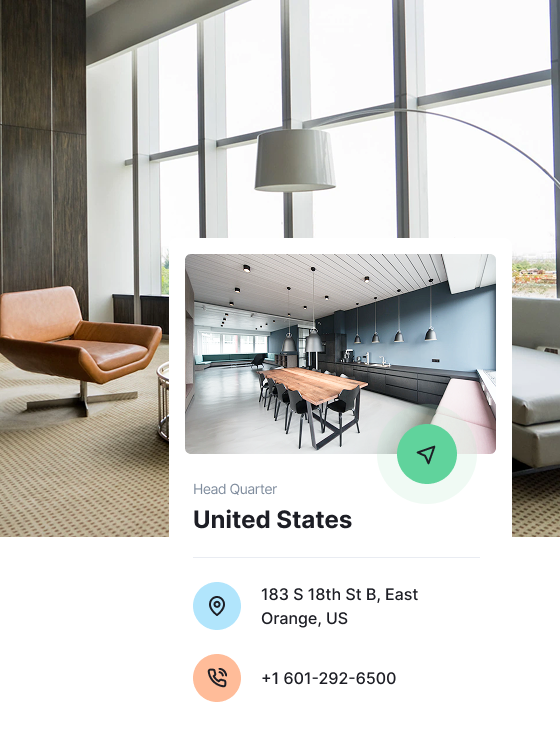
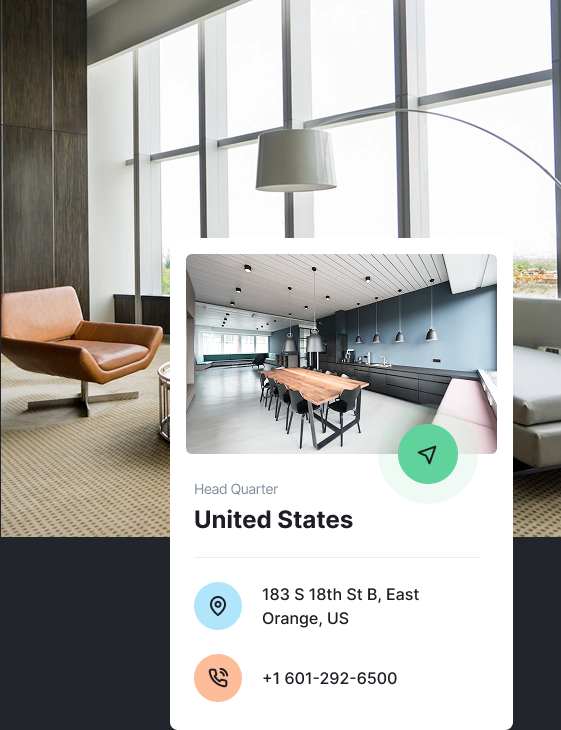
PRT-012 feat: implementação Clamp ao tamanho das fontes, modulando de 375px a 1440px

diff --git a/CSS/styles.css b/CSS/styles.css
@@ -16,6 +16,18 @@
 
   --poppins-font: "Poppins", sans-serif;
   --inter-font: "Inter", sans-serif;
+
+  --fs-xxs: clamp(0.75rem, 0.7rem + 0.2vw, 0.875rem); /* ~12 - 14px */
+  --fs-xs: clamp(0.875rem, 0.85rem + 0.3vw, 1rem); /* ~14 - 16px */
+  --fs-sm: clamp(1rem, 0.98rem + 0.4vw, 1.125rem); /* ~16 - 18px (body) */
+  --fs-md: clamp(
+    1.125rem,
+    1.05rem + 0.8vw,
+    1.375rem
+  ); /* ~18 - 22px (subtitles) */
+  --fs-lg: clamp(1.5rem, 1.3rem + 1.6vw, 2.2rem); /* ~24 - 35px (big subs) */
+  --fs-xl: clamp(2rem, 1.9rem + 2.2vw, 3rem); /* ~32 - 48px (h2) */
+  --fs-xxl: clamp(3rem, 2.6rem + 3vw, 4.5rem); /* ~48 - 72px (hero h1) */
 }
 
 /* Configurações Estruturação Inicial */
@@ -59,8 +71,7 @@ ul li {
   margin-left: calc(50% - 50vw);
   margin-right: calc(50% - 50vw);
   margin-top: calc(0.7rem + 0.6vw);
-  padding: 0 min(5%, 60px);
-  padding-inline: (16px, calc((100vw - 1200px) / 2), 120px);
+  padding-inline: clamp(20px, calc((100vw - 1200px) / 2), 120px);
   box-sizing: border-box;
 }
 
@@ -104,7 +115,7 @@ ul li {
 }
 
 .hero-content h1 {
-  font-size: clamp(3.7rem, 3rem + 2vw, 4.5rem);
+  font-size: clamp(3.7rem, calc(1.1297rem + 10.967vw), 11rem);
   font-weight: 600;
   line-height: 1.2;
   letter-spacing: -0.16rem;
@@ -140,7 +151,7 @@ ul li {
 }
 
 .introduction h2 {
-  font-size: 2.44rem;
+  font-size: clamp(2.44rem, calc(1.785rem + 2.793vw), 4.3rem);
   font-weight: 600;
   line-height: 1.33;
   letter-spacing: -0.02rem;
@@ -172,7 +183,7 @@ ul li {
 }
 
 .main-btn {
-  font-size: 1.22rem;
+  font-size: clamp(1.22rem, calc(1.1566rem + 0.2704vw), 1.4rem);
   font-weight: 500;
   letter-spacing: -0.02rem;
 }
@@ -199,11 +210,10 @@ ul li {
 
 .office-text {
   margin-bottom: 7.6rem;
-  width: 105%;
 }
 
 .office-text p {
-  font-size: 0.9rem;
+  font-size: 0.85rem;
   letter-spacing: -0.012rem;
 }
 
@@ -226,7 +236,7 @@ ul li {
 .ourwork {
   background-color: var(--background-ourwork);
   color: var(--text-white-color);
-  padding: 4.4rem 0;
+  padding: 4.35rem 0;
 }
 
 .ourwork-content {
@@ -239,7 +249,7 @@ ul li {
 }
 
 .ourwork-content h2 {
-  font-size: 2.45rem;
+  font-size: clamp(2.45rem, calc(1.7987rem + 2.7789vw), 4.3rem);
   font-weight: 600;
   line-height: 1.33;
   letter-spacing: -0.02rem;
@@ -251,7 +261,7 @@ ul li {
   font-weight: 300;
   line-height: 1.8;
   letter-spacing: +0.005rem;
-  margin-bottom: calc(1.1rem + 3.5vw);
+  margin-bottom: calc(1.2rem + 4vw);
 }
 
 /* Botões padronizados da Seção */
@@ -277,7 +287,7 @@ ul li {
 }
 
 .main-btn-white {
-  font-size: 1.24rem;
+  font-size: clamp(1.22rem, calc(1.1566rem + 0.2704vw), 1.4rem);
   font-weight: 400;
   letter-spacing: -0.02rem;
   padding-left: 0.5vw;
@@ -318,10 +328,9 @@ ul li {
 }
 
 .work-item-text h3 {
-  font-size: 1.12rem;
+  font-size: clamp(1.12rem, calc(0.78rem + 1.3216vw), 1.95rem);
   font-weight: 500;
   line-height: 1.6;
-  margin-bottom: 0.6rem;
   margin-bottom: 2rem;
 }
 
@@ -342,11 +351,10 @@ ul li {
   display: none;
 }
 
-/* Proporção imagens
+/* Proporção imagens */
 .work-item.size-a .media-item { aspect-ratio: 2.33 / 3; }
 .work-item.size-b .media-item { aspect-ratio: 4 / 4.15; }
 
-/*
 
 /* Seção Testimonials */
 
@@ -376,7 +384,7 @@ ul li {
   margin: 0;
   font-weight: 400;
   color: var(--text-black-color);
-  font-size: clamp(1.25rem, 2.7vw, 2.5rem);
+  font-size: 1.25rem;
   line-height: 1.8;
   max-width: 60ch;
 }
@@ -400,7 +408,7 @@ ul li {
 
 /* quote mark - mobile: pequena e inline acima do texto */
 .quote-mark {
-  width: 48px;
+  width: clamp(48px, calc(33.92px + 3.7547vw), 88px);
   height: auto;
   display: block;
 }
@@ -484,7 +492,7 @@ ul li {
 }
 .cta-text {
   margin: 0;
-  font-size: clamp(1rem, 2.2vw, 1.25rem);
+  font-size: 1rem;
   font-weight: 500;
   color: var(--button-color);
 }
@@ -647,6 +655,10 @@ ul li {
 }
 
 @media (min-width: 1024px) {
+  .footer {
+    background-color: var(--background-footer);
+  }
+
   .footer-top {
     flex-direction: row;
     justify-content: space-between;
@@ -657,10 +669,6 @@ ul li {
     flex-direction: row;
     gap: 1rem;
     align-items: center;
-  }
-  .footer-logo {
-    width: 72px;
-    height: 72px;
   }
   .footer-rule {
     display: block;

diff --git a/index.html b/index.html
@@ -357,7 +357,7 @@
               <div class="testimonial-author">
                 <img
                   src="/resources/images/mobile-version/senior-director.png"
-                  alt="Photo of Anthony Klok"
+                  alt="Anthony Klok"
                   class="author-avatar"
                   loading="lazy"
                 />
@@ -376,7 +376,6 @@
     </main>
     <footer class="footer">
       <div class="container">
-        
         <div class="footer-top">
           <img
             class="footer-logo"
@@ -413,7 +412,11 @@
                   class="submit-button"
                   aria-label="Subscribe"
                 >
-                  <span class="arrow"><img src="/resources/icons/arrow-right.svg" alt="Seta para a direita"></span>
+                  <span class="arrow"
+                    ><img
+                      src="/resources/icons/arrow-right.svg"
+                      alt="Seta para a direita"
+                  /></span>
                 </button>
               </div>
             </form>
@@ -459,13 +462,22 @@
 
           <div class="social">
             <a href="#" aria-label="Facebook">
-              <img src="/resources/icons/facebook-logo-icon.svg" alt="Logo do Facebook" />
+              <img
+                src="/resources/icons/facebook-logo-icon.svg"
+                alt="Logo do Facebook"
+              />
             </a>
             <a href="#" aria-label="Twitter">
-              <img src="/resources/icons/twitter-logo-icon.svg" alt="Logo do Twitter" />
+              <img
+                src="/resources/icons/twitter-logo-icon.svg"
+                alt="Logo do Twitter"
+              />
             </a>
             <a href="#" aria-label="Instagram">
-              <img src="/resources/icons/instagram-logo-icon.svg" alt="Logo do Instagram" />
+              <img
+                src="/resources/icons/instagram-logo-icon.svg"
+                alt="Logo do Instagram"
+              />
             </a>
           </div>
         </div>
